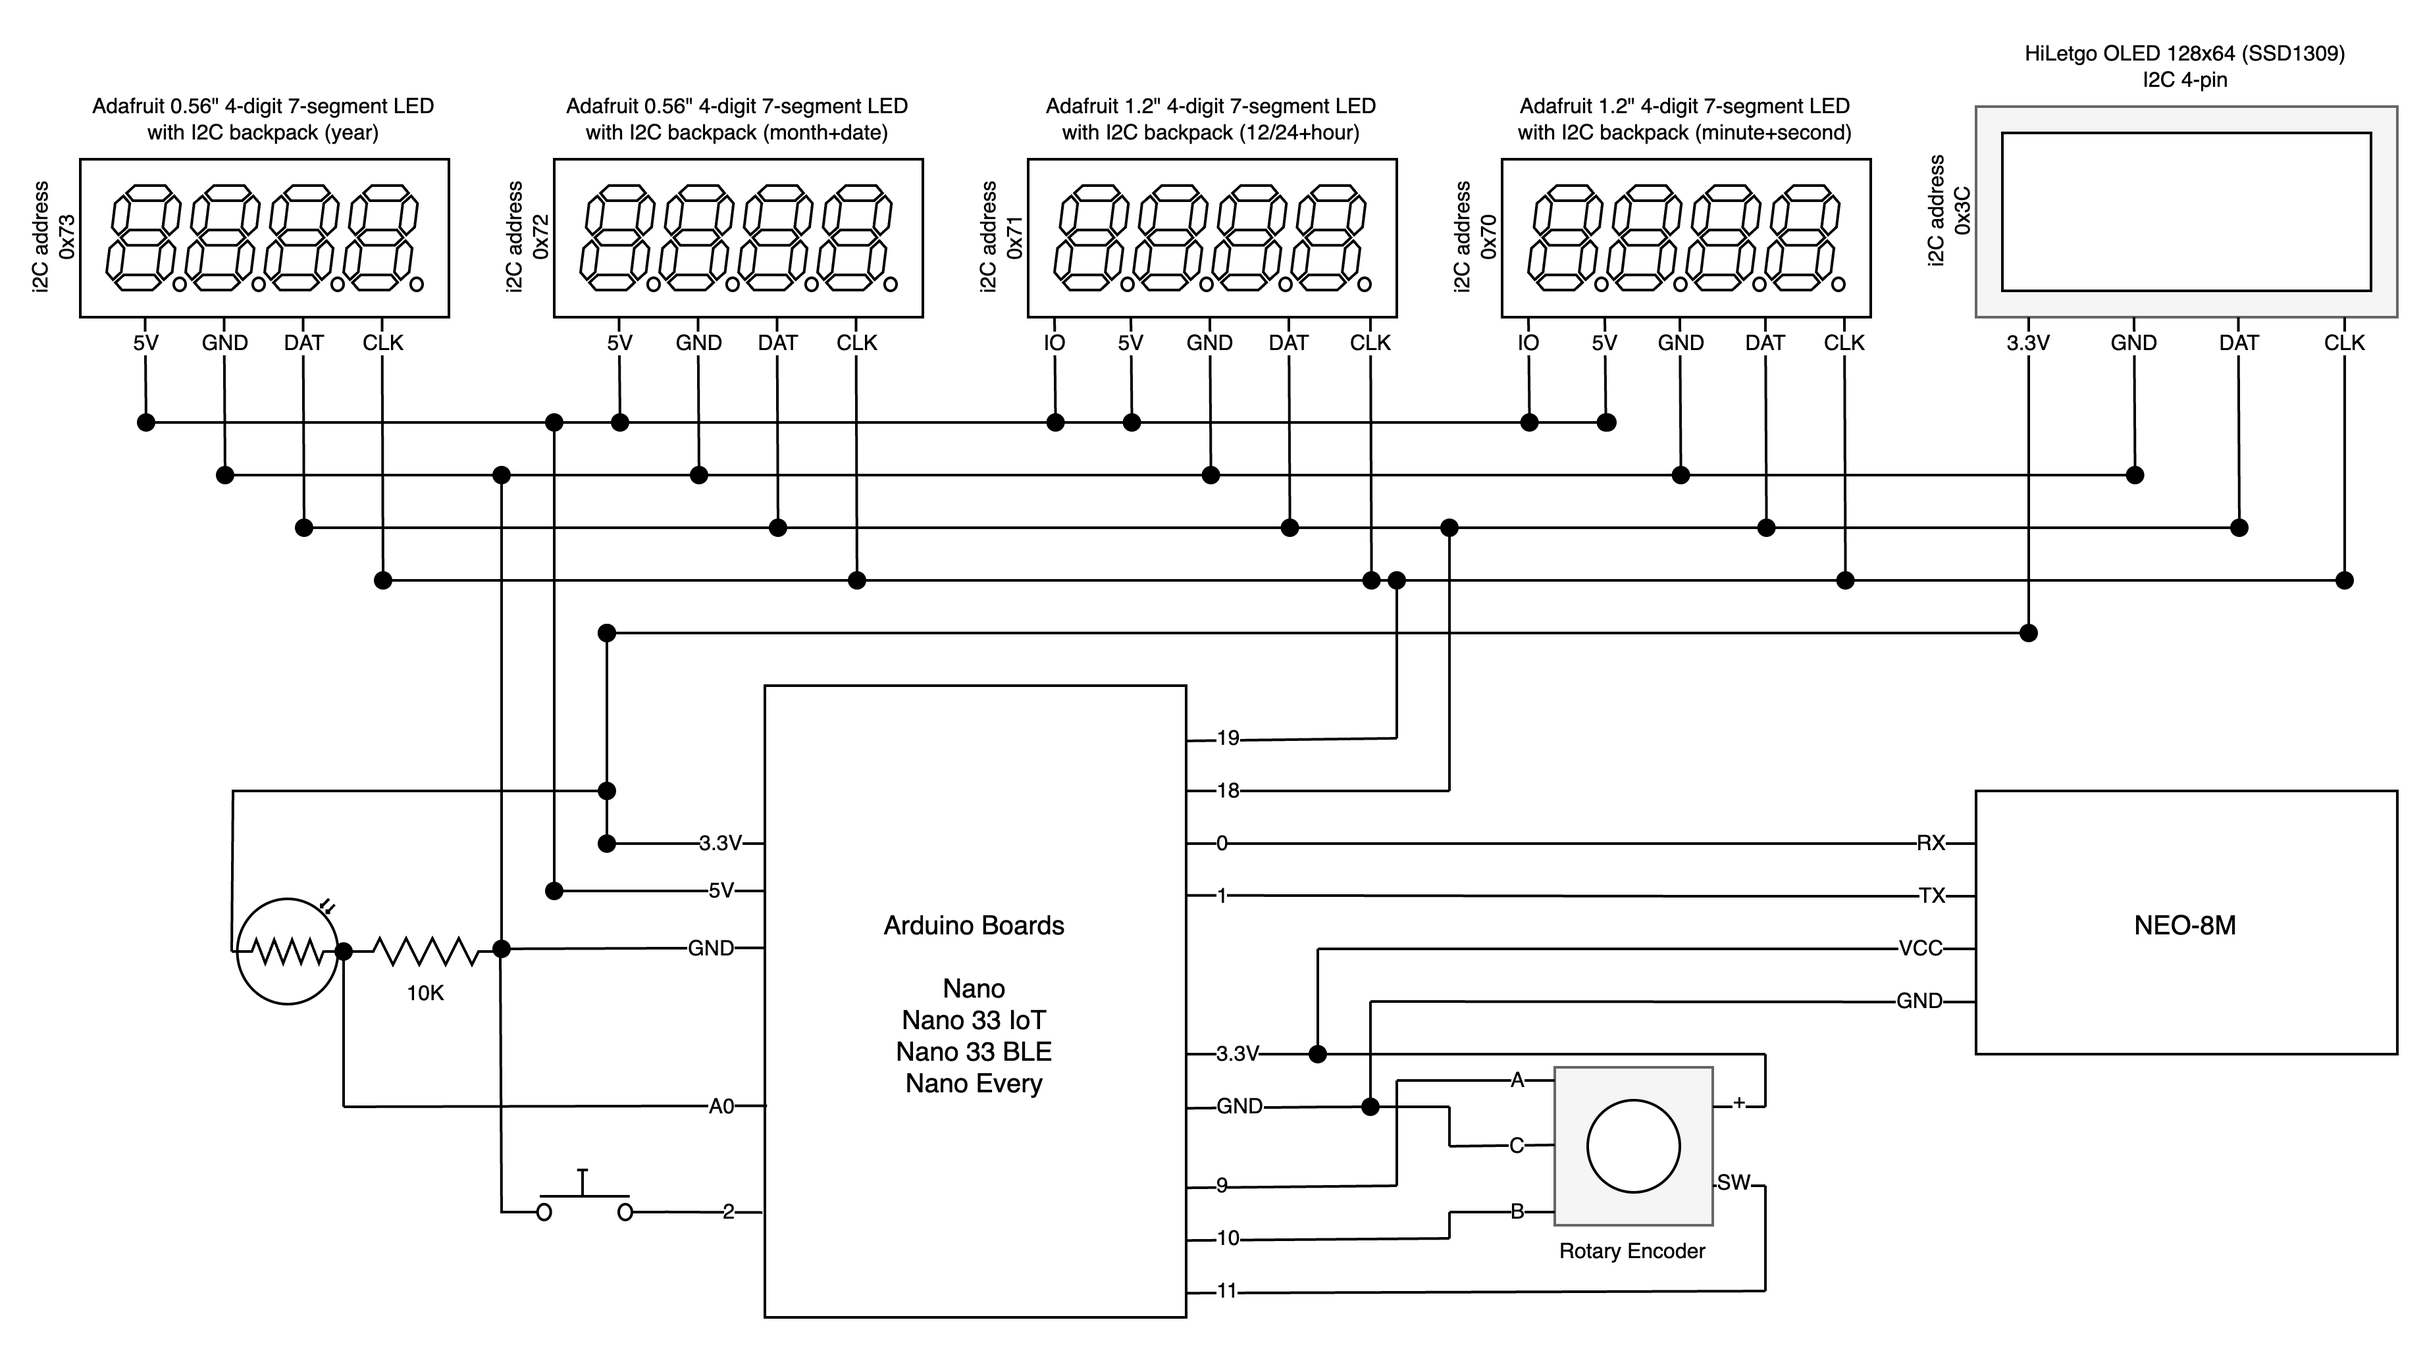
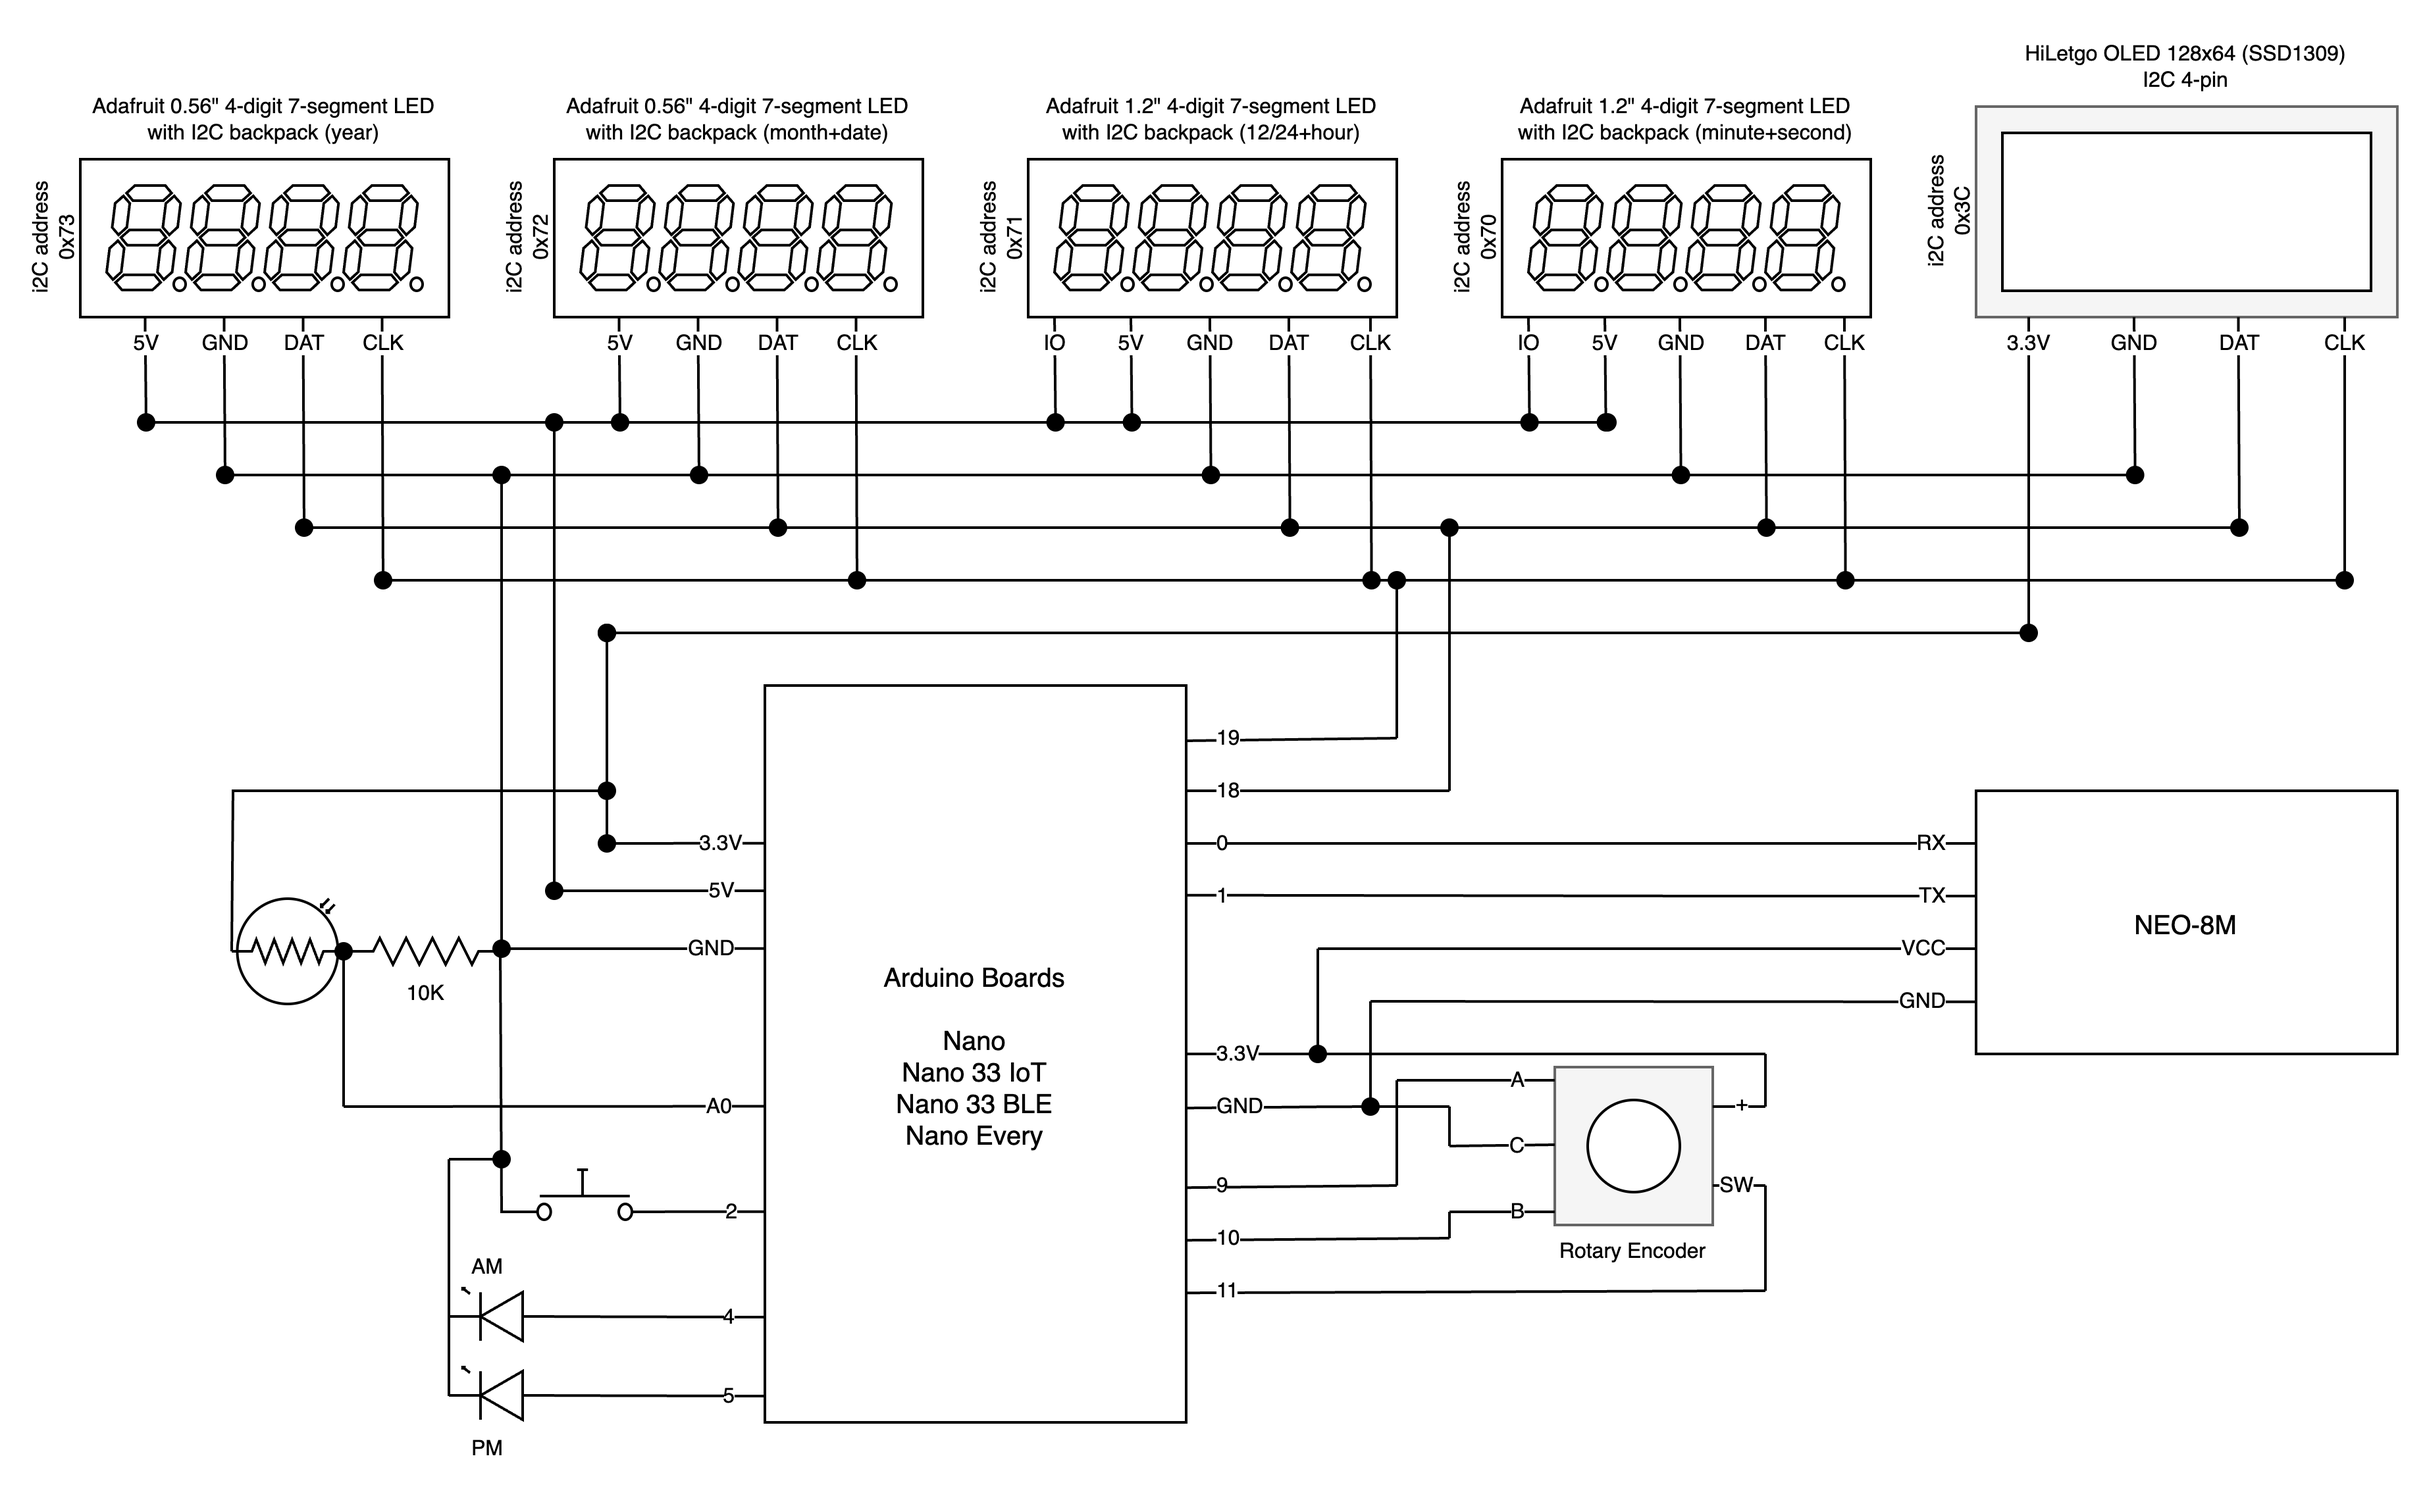
update schematic with AM/PM pins

diff --git a/README.md b/README.md
@@ -150,6 +150,8 @@ Several new Arduino Nano-series boards are now suppported. These include [Arduin
 
 The Arduino Nano 33 BLE board operates strictly at 3.3V, so the _photoresistor_ and _rotary encoder_ sensors must be attached to 3.3V (not 5V as depicted in the schematics). It turns out that the supported _GPS modules_ also operate correctly with 3.3V, though continued use of 5V appears to be safe.
 
+AM and PM indicators were also introduced by way of default pins `4` and `5`, respectively. These pins are exclusively set `HIGH` and `LOW` if the clock is operating in 12-hour mode and the local time is AM and PM as one would expect. These presumably drive LEDs as illustrated in the schematic below.
+
 New components:
 
 * [OLED 2.42" 128x64 Display](https://www.amazon.com/HiLetgo-SSD1309-128x64-Display-Optional/dp/B0CFF3XNX4/?th=1)
